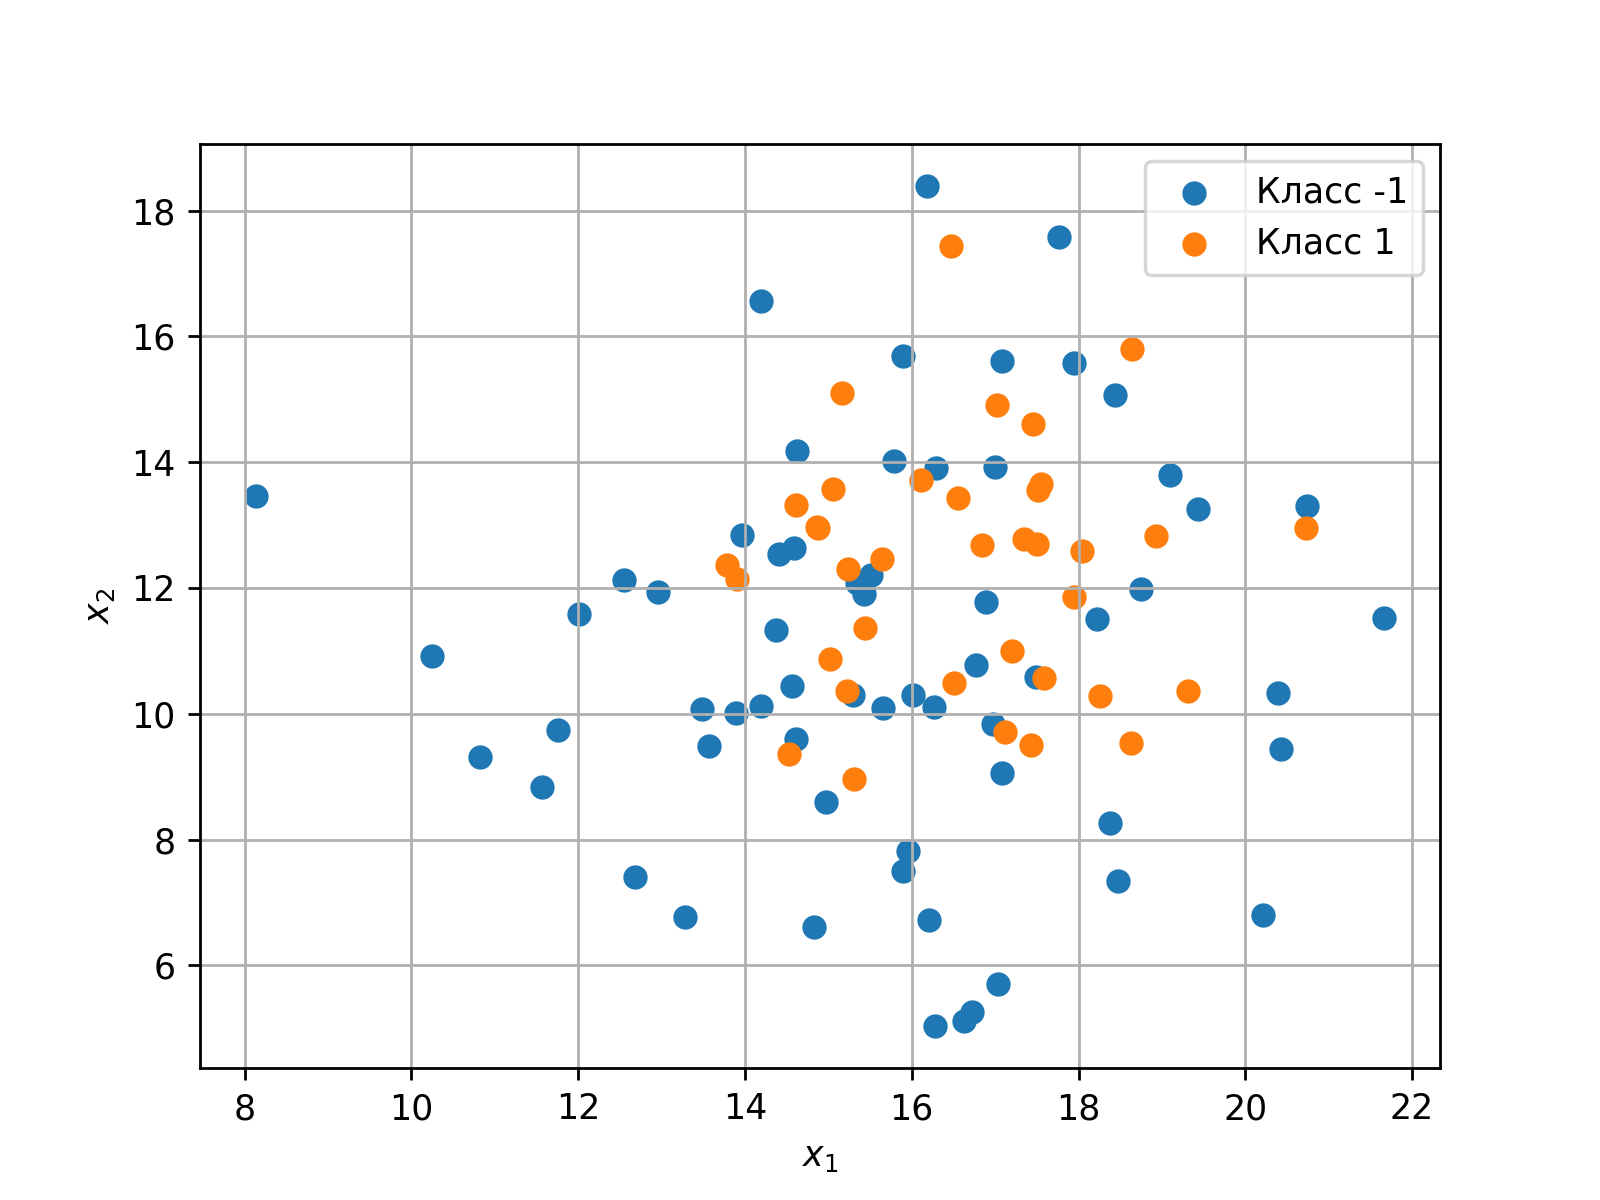
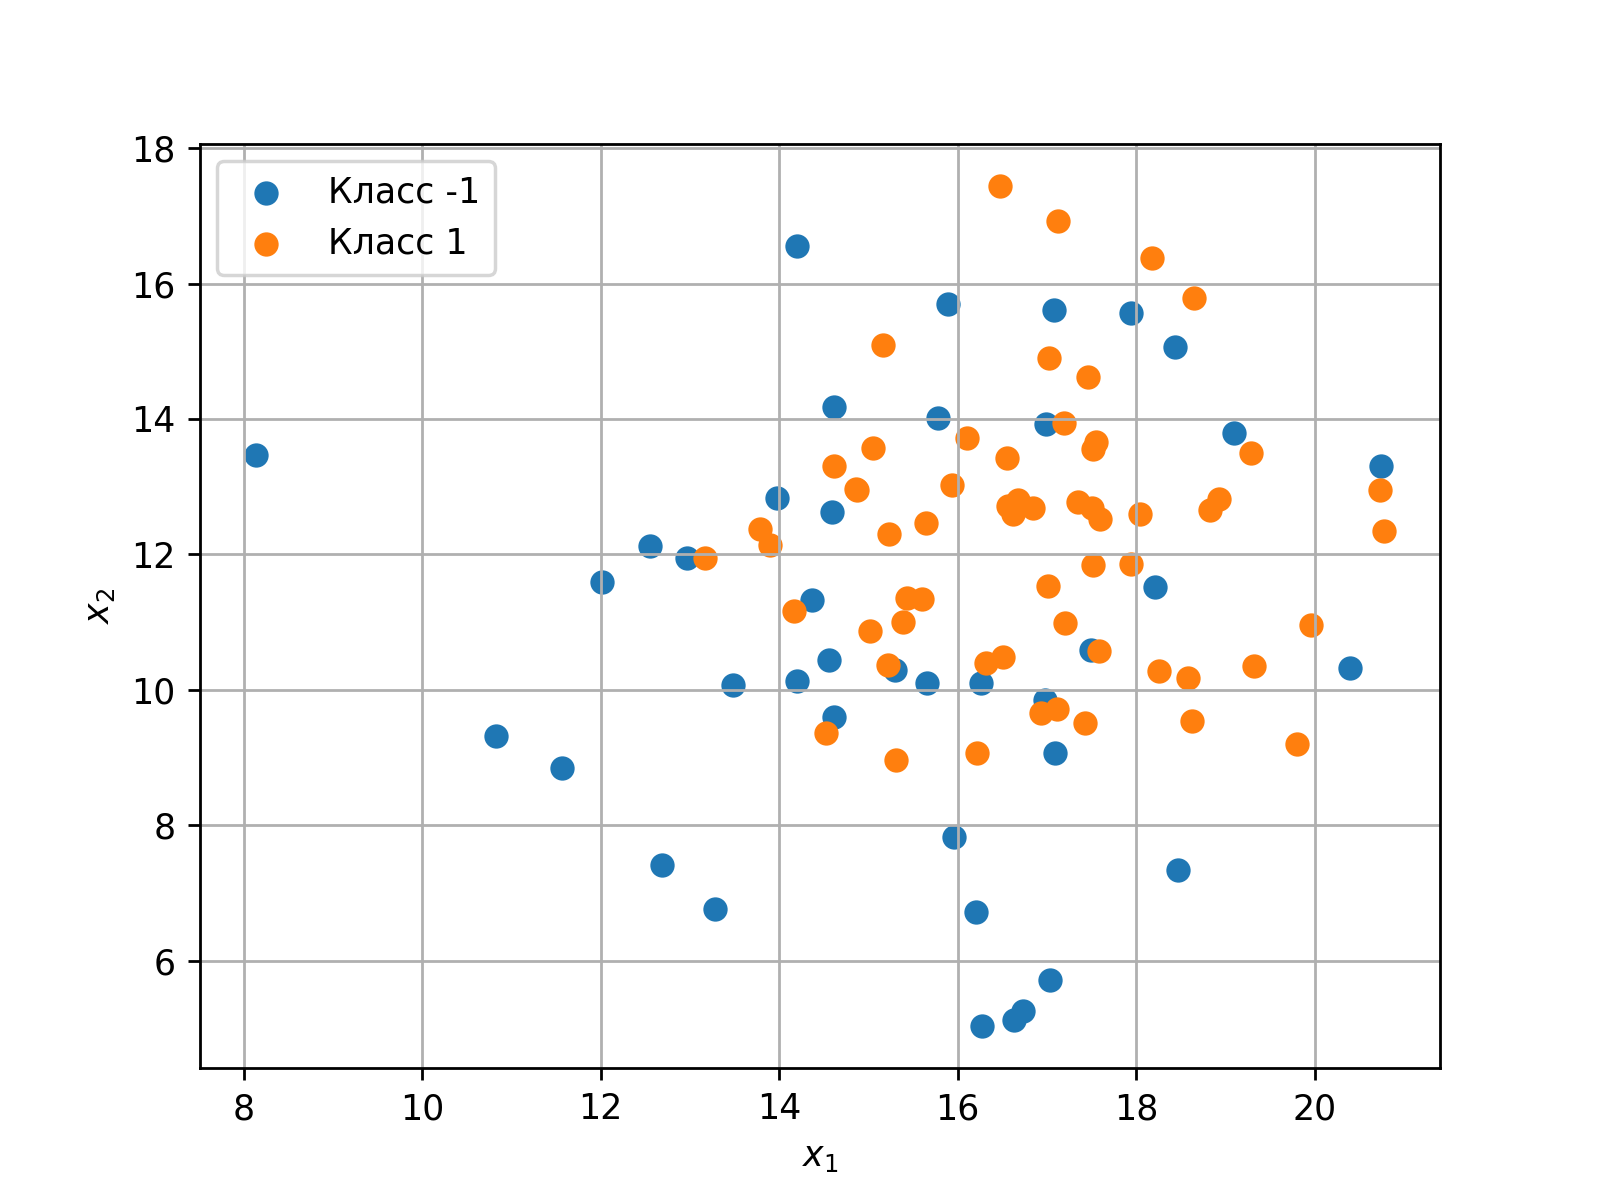
Lab1 ready

diff --git a/labs/1/tasks/4.py b/labs/1/tasks/4.py
@@ -219,14 +219,14 @@ def e():
 
     gammas = [0.1, 1, 10, 100]
     for gamma in gammas:
-        model = SVC(kernel="rbf", gamma=gamma)
+        model = SVC(kernel="sigmoid", gamma=gamma)
         model.fit(X_train_scaled, y_train)
         plot_decision_boundary(
             model,
             X_test_scaled,
             y_test,
-            f"RBF SVM с gamma={gamma}",
-            path_to_save=f"./pics/4/e/RBF_SVM_gamma_{gamma}.png",
+            f"sigmoid SVM с gamma={gamma}",
+            path_to_save=f"./pics/4/e/linear_SVM_gamma_{gamma}.png",
         )
 
 

diff --git a/labs/1/tasks/2.py b/labs/1/tasks/2.py
@@ -39,9 +39,9 @@ def generate_data(
 
 
 def main():
-    df = generate_data(perc_pos=0.37)
+    df = generate_data(perc_pos=.6)
     print("Проверка распределения:")
-    print(df.groupby("target").agg(["mean", "count"]))
+    print(df.groupby("target").agg(["mean", "std", "count"]))
 
     for class_ in df["target"].unique():
         class_df = df.query(f"target == {class_}")

diff --git a/labs/1/tasks/3.py b/labs/1/tasks/3.py
@@ -99,7 +99,7 @@ def main():
         "train_error",
         "test_error",
         "Ошибка",
-        "Зависимость Точности (Accuracy) от количества соседей",
+        "Зависимость ошибки (1 - Accuracy) от количества соседей",
     )
 
     best_n = int(accuracy_df.loc[accuracy_df["test_acc"].idxmax()]["n"])
